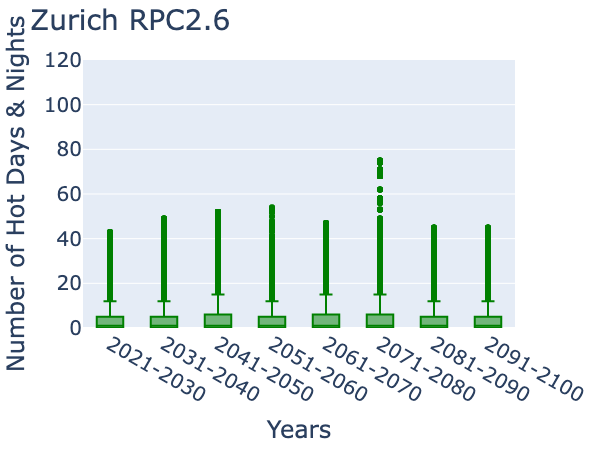
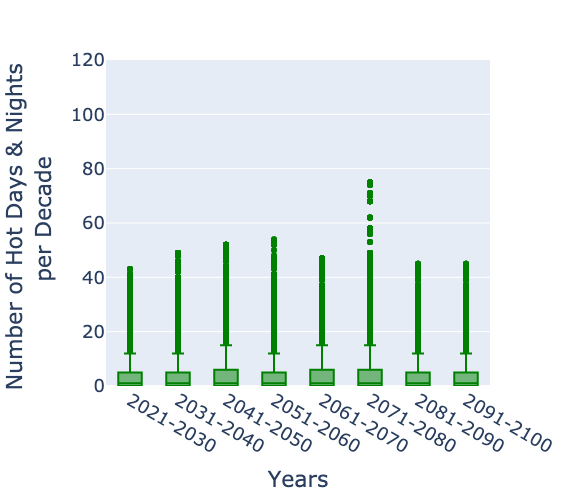
use static box figures

Changed region(s): [[0.0, 0.0, 0.9842, 0.9022], [0.4474, 0.9333, 0.5965, 0.9956]]

diff --git a/src/climate_scenarios_fig.py b/src/climate_scenarios_fig.py
@@ -46,6 +46,8 @@ def _plot_box_fig(climate_scenario):
     )
     fig.update_xaxes(tickangle=30)
 
+    # fig.write_image(FIG_DIRECTORY / f"box_fig_RPC_{scenario_as_number}.png")
+
     return plotly_as_python_dict(fig)
 
 
@@ -144,15 +146,15 @@ def _plot_number_of_hot_days_and_nights(climate_scenario):
     return plotly_as_python_dict(fig)
 
 
-box_fig_plot = {el: _plot_box_fig(el) for el in SCENARIOS}
+# box_fig_plot = {el: _plot_box_fig(el) for el in SCENARIOS}
 
 
-# box_fig_plot = {
-#     el: pn.pane.PNG(
-#         FIG_DIRECTORY / f"box_fig_RPC_{number_from_climate_scenario(el)}.png", width=570
-#     )
-#     for el in SCENARIOS
-# }
+box_fig_plot = {
+    el: pn.pane.PNG(
+        FIG_DIRECTORY / f"box_fig_RPC_{number_from_climate_scenario(el)}.png", width=570
+    )
+    for el in SCENARIOS
+}
 scenario_fig_plot = {el: _plot_number_of_hot_days_and_nights(el) for el in SCENARIOS}
 
 scenario_titles = {
